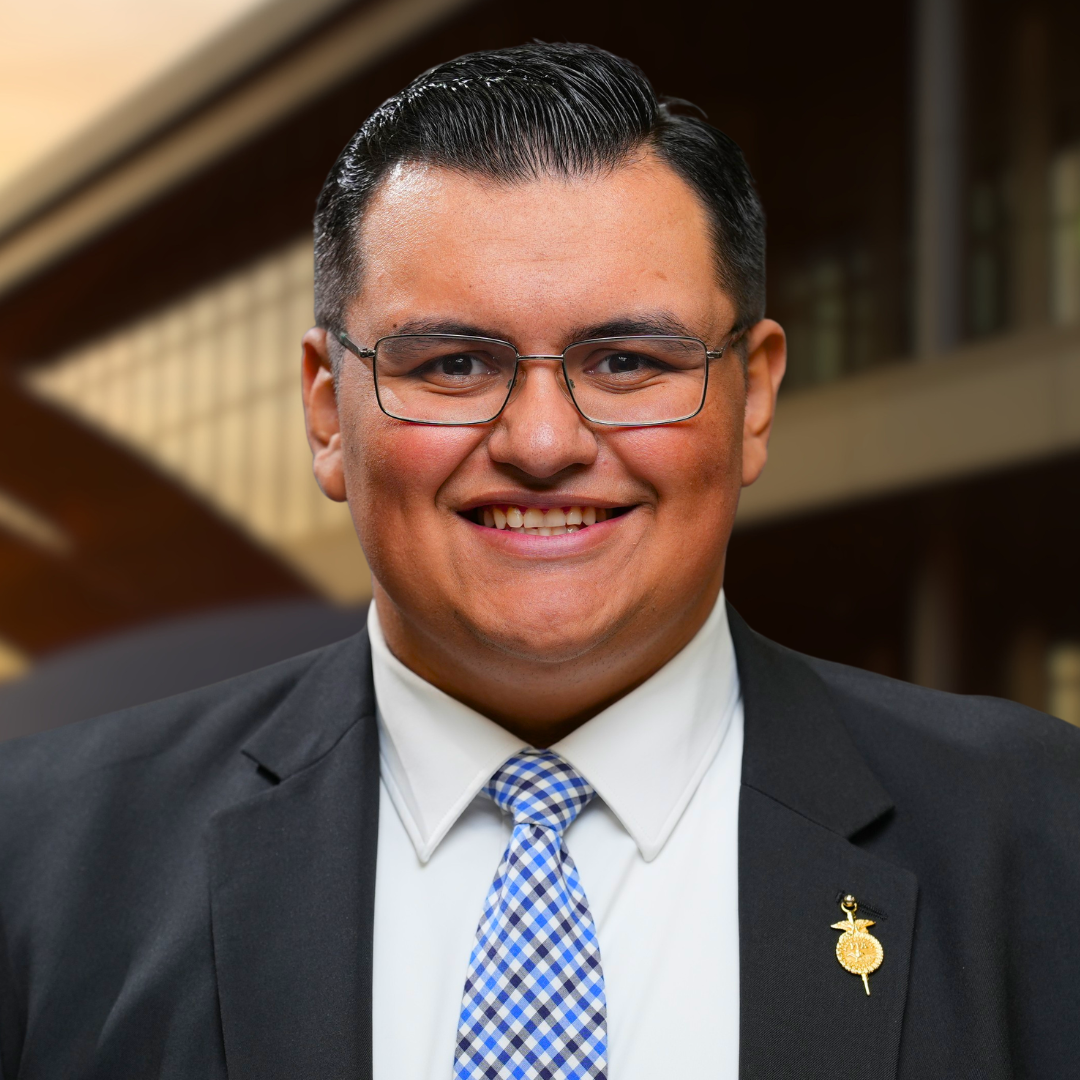
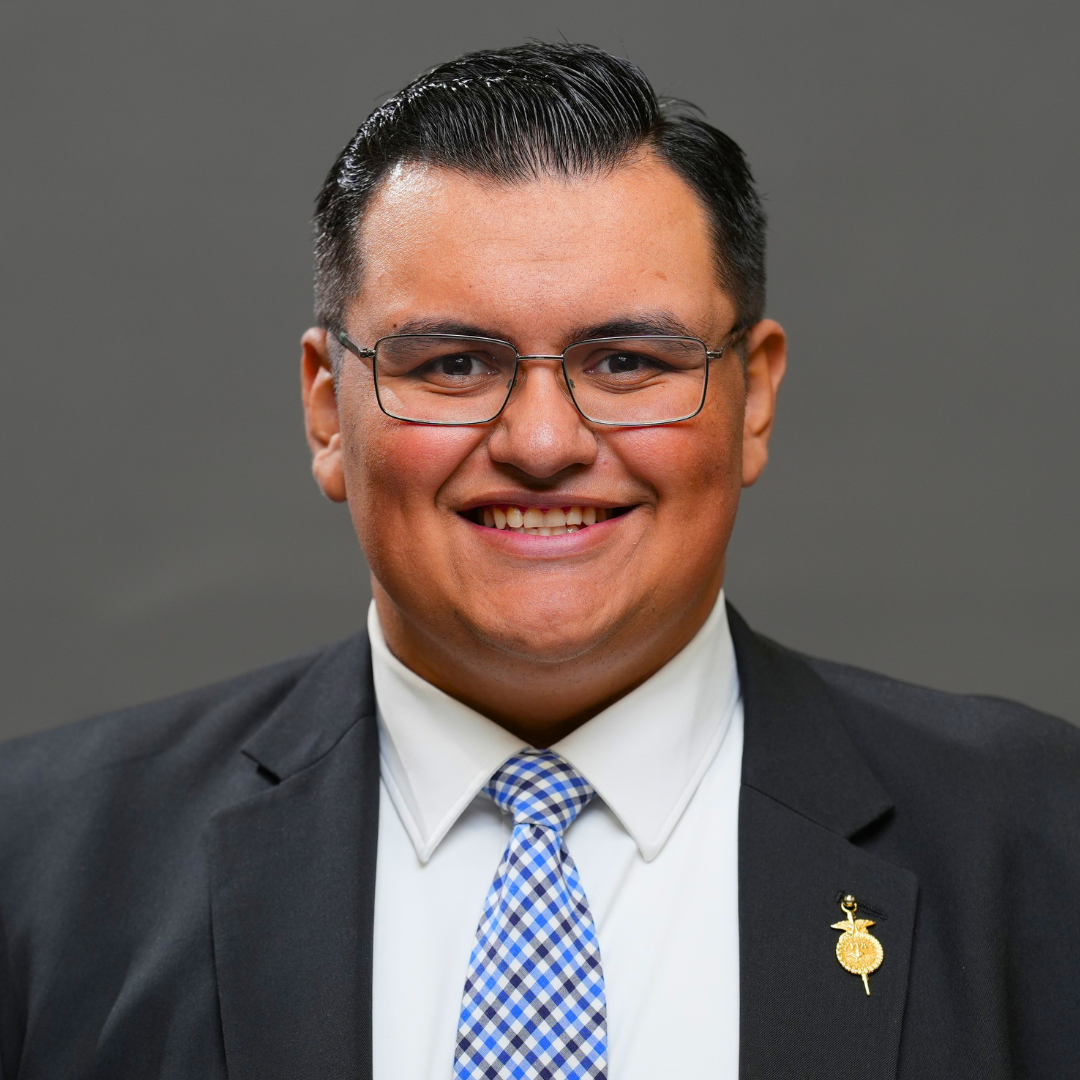
Commit

diff --git a/portfolio.html b/portfolio.html
@@ -631,9 +631,9 @@
     </div>
     <h1 class="hero-name">Uriel <em>Aguilar Torres</em></h1>
     <p class="hero-title">IT Systems Administrator · Beef Northwest Feeders &nbsp;|&nbsp; BS Information Technology · Oregon Tech '27</p>
-    <p class="hero-location">Portland, OR Metro &nbsp;·&nbsp; Agricultural IT Specialist</p>
+    <p class="hero-location">Portland, OR Metro</p>
     <p class="hero-summary">
-      I build, evaluate, and run enterprise IT infrastructure — from server environments and ITSM platforms to device management rollouts across multi-site agricultural operations. Currently completing my Data Infrastructure &amp; Networking emphasis degree while working as a systems administrator.
+      IT Systems Administrator with nearly five years of progressive experience, advancing from sole IT resource to enterprise systems administration for multi-site agricultural organizations. I lead ITSM and endpoint management platforms, drove macOS adoption as a supported enterprise platform, and administer identity and access. Leader with student government, nonprofit board, and statewide public speaking experience, completing my BS in Information Technology at Oregon Tech.
     </p>
     <div class="hero-contacts">
       <a href="mailto:connect@urielaguilartorres.com" class="contact-pill">

diff --git a/index.html b/index.html
@@ -446,7 +446,7 @@ body::after {
 <div class="panel-block">
   <div class="panel-label">About</div>
   <div class="panel-title">IT Systems Administrator</div>
-  <p class="panel-body">I build, evaluate, and run enterprise IT infrastructure — from server environments and ITSM platforms to device management rollouts across multi-site agricultural operations. Currently completing my BS in Information Technology at Oregon Tech while working in a senior infrastructure role.</p>
+  <p class="panel-body">IT Systems Administrator with nearly five years of progressive experience, from sole IT resource to enterprise systems administration for multi-site agricultural organizations. I lead ITSM and endpoint management, drove macOS adoption as a supported enterprise platform, and administer identity and access. Currently completing my BS in Information Technology at Oregon Tech.</p>
 </div>
 
 <div class="panel-block">
